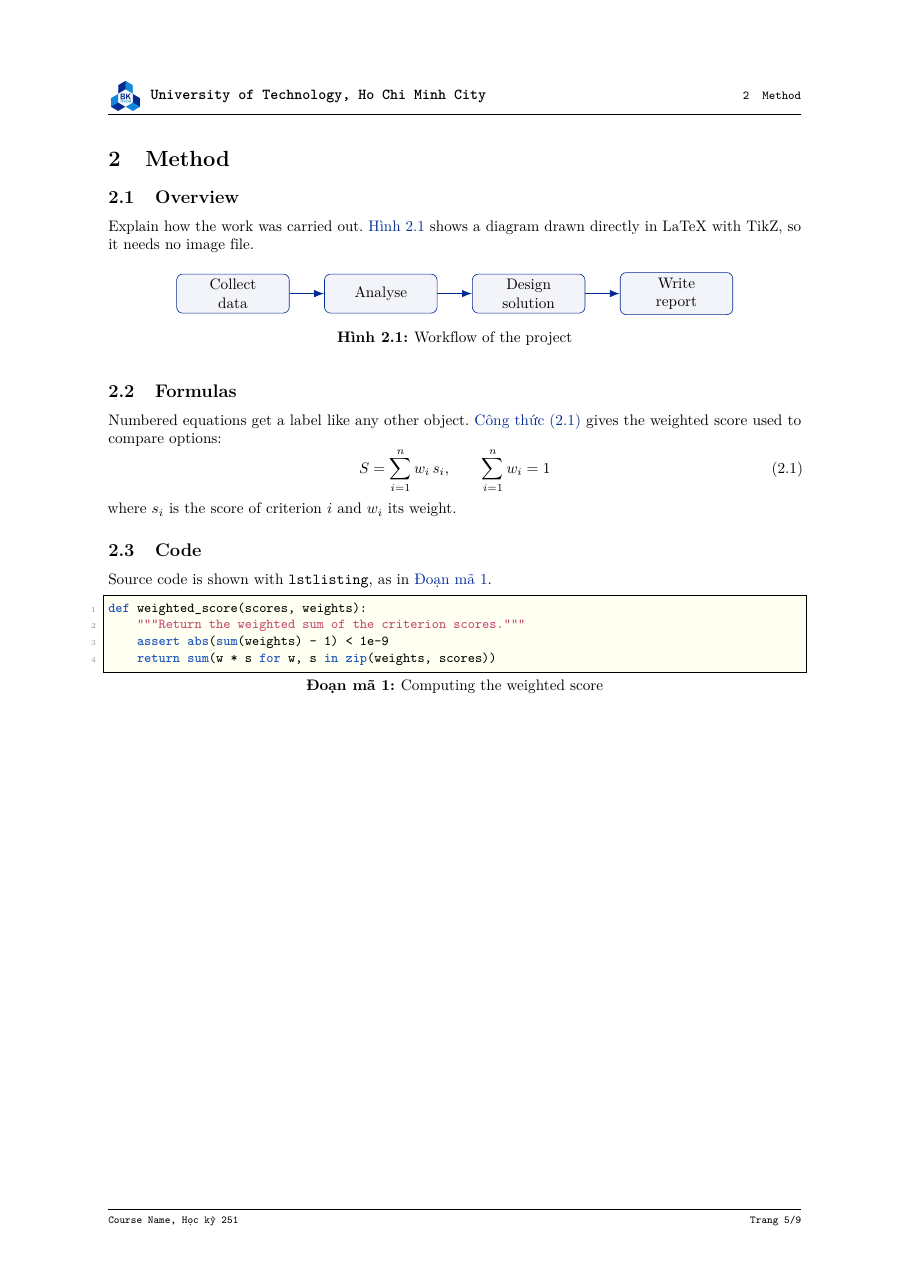
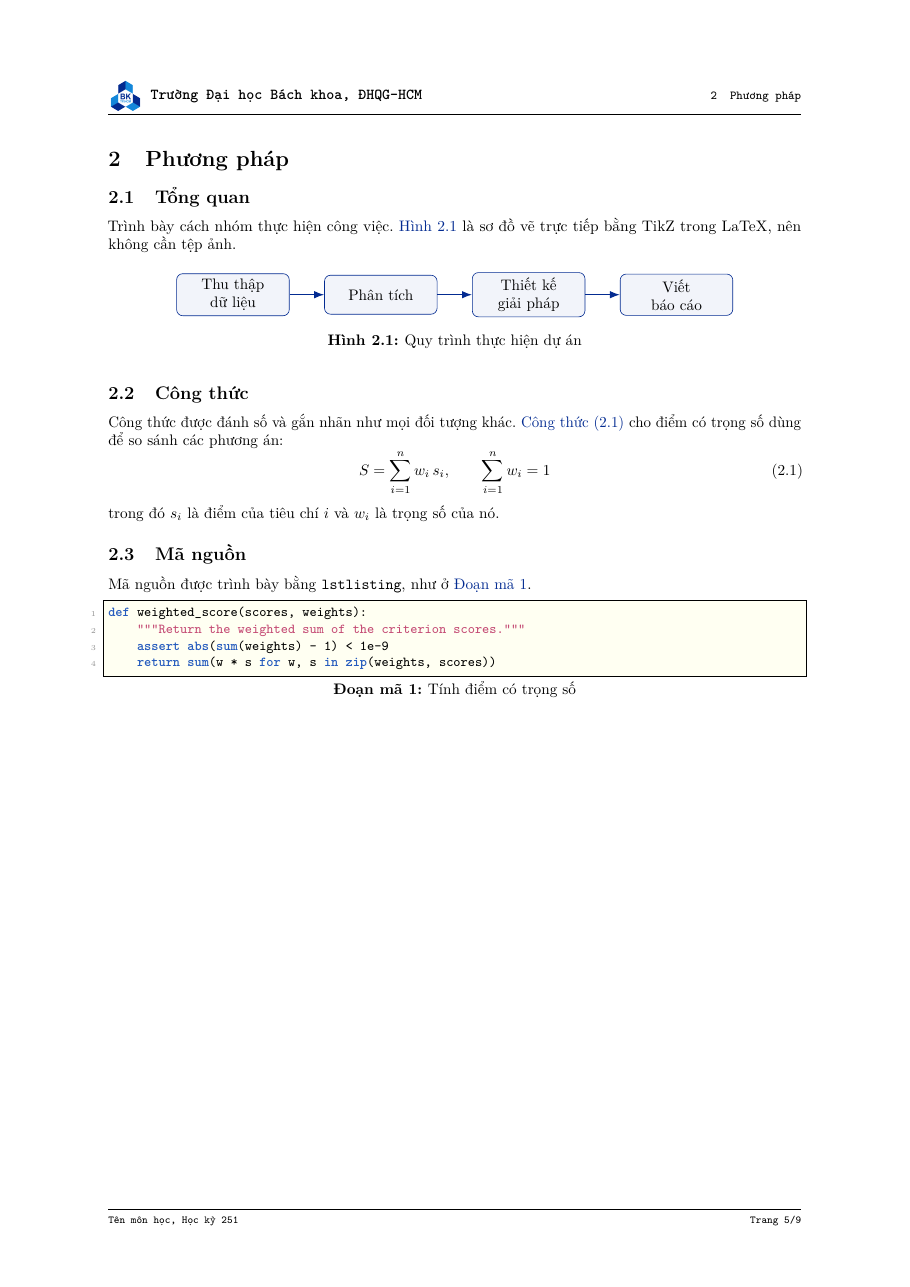
Show a fully Vietnamese report in the Vietnamese screenshots
The Vietnamese README screenshots were built from main with only the
vietnamese option turned on. The option translates the template's own
words (Hình, Công thức, Đoạn mã, cover labels), but the placeholder
chapters and metadata on main are English, so the pages came out half
English and half Vietnamese ("Hình 2.1" next to "Workflow of the
project", an English page header).

- docs/assets/preview-{cover,content}-vi.png: rebuilt from a temporary
  copy whose metadata (university, page header, course, title, city,
  member tasks) and Method chapter were translated into Vietnamese.
  The code in the listing stays English, since listings cannot take
  Vietnamese diacritics. The English screenshots are unchanged.
- docs/{vi,en}/02 options page: say that the language option does not
  translate the chapter text either, and that the English placeholder
  chapters give a mixed report until they are rewritten.
- CLAUDE.md: describe the translated copy in the screenshot steps.

diff --git a/CLAUDE.md b/CLAUDE.md
@@ -25,9 +25,9 @@ A pdfLaTeX + BibTeX group-report template for HCMUT (Vietnam).
   - The planned GitHub repo is `tienhwng/hcmut-latex-report-template`, which is not pushed yet. The CI badge and the `git clone` URLs in `docs/*/00-*` use that address; update all of them if the name changes.
   - Both READMEs show two PDF screenshots side by side (`docs/assets/preview-{cover,content}-{vi,en}.png`) and a Mermaid `flowchart LR` of the inputs feeding `main.tex`. Mermaid ignores `direction` inside a subgraph that is linked as a whole, so the diagram uses plain nodes.
   - Regenerate the screenshots whenever the cover or page layout changes:
-    1. Build final-mode copies of main.tex, without `draft`: `zz-test-en.tex` with no option and `zz-test-vi.tex` with `[vietnamese]`.
+    1. Build final-mode copies of main.tex, without `draft`: `zz-test-en.tex` with no option and `zz-test-vi.tex` with `[vietnamese]`. The vi copy must also be Vietnamese in content, or the page comes out half English: point it at temporary translations of `config/metadata.tex` and `chapters/02-method.tex` in a `zz-vi/` folder (the user asked for this). Keep the code inside the listing in English, because listings cannot take diacritics.
     2. Run `pdftoppm -png -r 110 -f N -l N -singlefile` on page 1 and on the "2 Method" page (currently page 6).
-    3. Delete the `zz-test-*` copies.
+    3. Delete the `zz-test-*` copies, `zz-vi/` and their files in `build/`.
   - To validate a diagram, run `npx -p @mermaid-js/mermaid-cli mmdc -i x.mmd -o x.png` in the scratchpad.
 
 ## Commands

diff --git a/docs/vi/02-tuy-chon.md b/docs/vi/02-tuy-chon.md
@@ -40,7 +40,7 @@ Option viết sai tên (ví dụ `vietnam`) **không** làm build thất bại. 
 | Ngày mặc định | November 2026 | tháng 11 năm 2026 |
 | Quy tắc ngắt từ, ngôn ngữ của PDF | Tiếng Anh | Tiếng Việt |
 
-Đổi ngôn ngữ **không** dịch các thông tin bạn tự nhập trong `config/metadata.tex`, như tên trường, tên môn hay công việc của thành viên. Báo cáo tiếng Việt thì bạn nhập những thông tin đó bằng tiếng Việt.
+Đổi ngôn ngữ **không** dịch những gì bạn tự viết: thông tin trong `config/metadata.tex` (tên trường, tên môn, dòng chữ ở đầu trang, công việc của thành viên) và nội dung các chương. Các chương mẫu trên nhánh `main` viết bằng tiếng Anh, nên nếu chỉ bật `vietnamese` thì báo cáo sẽ nửa Anh nửa Việt cho đến khi bạn viết lại chúng. Báo cáo tiếng Việt thì bạn nhập những phần đó bằng tiếng Việt.
 
 ### Viết một đoạn khác nhau theo ngôn ngữ
 

diff --git a/docs/en/02-options.md b/docs/en/02-options.md
@@ -40,7 +40,7 @@ A misspelled option (for example `vietnam`) does **not** make the build fail. Th
 | Default date | November 2026 | tháng 11 năm 2026 |
 | Hyphenation, PDF language | English | Vietnamese |
 
-Switching the language does **not** translate what you typed in `config/metadata.tex`, such as the university, the course name or the members' tasks. For a Vietnamese report, enter those in Vietnamese.
+Switching the language does **not** translate what you write yourself: the data in `config/metadata.tex` (the university, the course name, the page header, the members' tasks) and the chapter text. The placeholder chapters on `main` are in English, so turning on `vietnamese` alone gives a half-English, half-Vietnamese report until you rewrite them. For a Vietnamese report, write those parts in Vietnamese.
 
 ### Text that depends on the language
 
